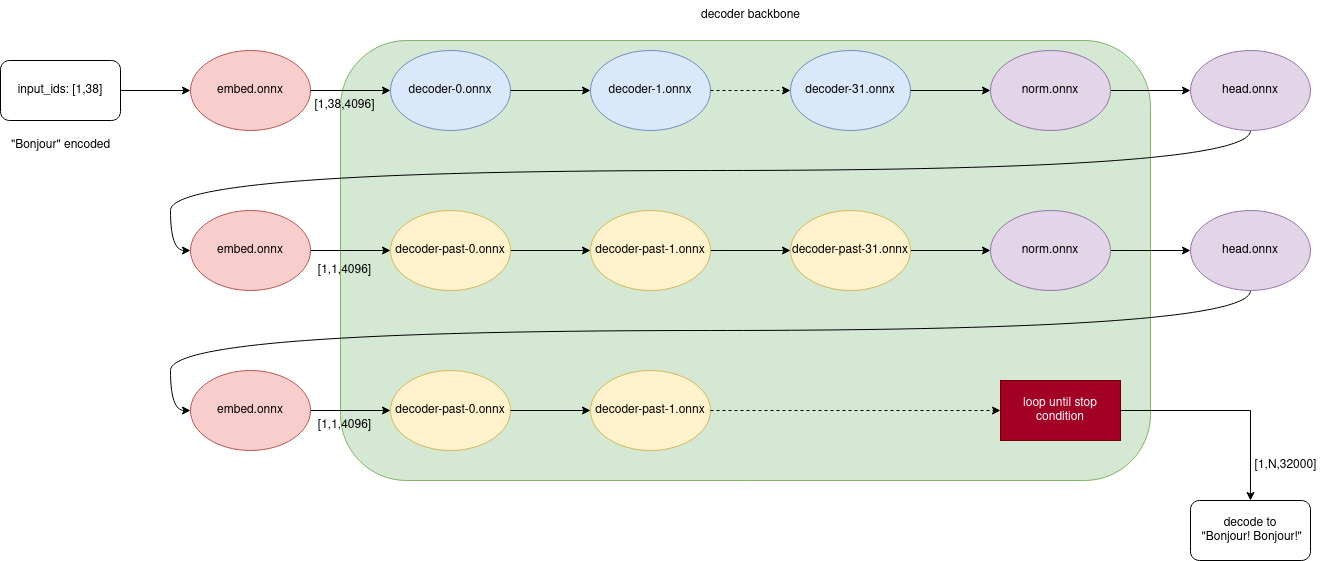
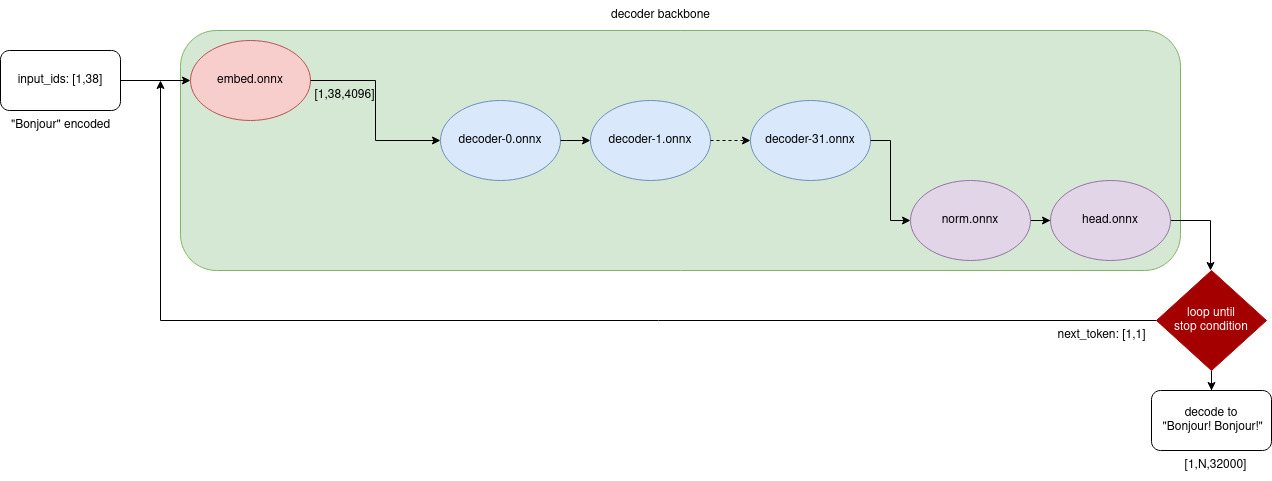
feat(project): reduce onnx model size (#6)
* feat(project): reduce onnx model size

* feat(project): reduce onnx model size

* feat(project): update image

diff --git a/demo-single.py b/demo-single.py
@@ -30,14 +30,12 @@ class Llama:
         # EOS token
         self.FINISH_TOKEN = 2
         self.tokenizer = Tokenizer(os.path.join(onnxdir, 'tokenizer.model'))
-        self.init = Decoder(onnxdir, 'decoder-{}.onnx', self.DECODER_COUNT)
-        self.past = Decoder(onnxdir, 'decoder-past-{}.onnx',
-                            self.DECODER_COUNT)
+        self.decoder = Decoder(onnxdir, 'decoder-merge-{}.onnx', self.DECODER_COUNT)
         self.config = config
 
         # cache
-        self.pastkeys = None
-        self.pastvalues = None
+        self.pastkeys = [None for i in range(self.DECODER_COUNT)]
+        self.pastvalues = [None for i in range(self.DECODER_COUNT)]
 
     # Modified transformers.models.llama.modeling_llama._make_causal_mask with np.array
     def _make_causal_mask(self,
@@ -111,41 +109,16 @@ class Llama:
 
         return combined_attention_mask
 
-    def decode_init(self, input_ids: np.array):
-        # project to embed/higher dimension
-        hidden = self.init.embed(input_ids)
-        assert hidden.shape[-1] == 4096
-
-        seqlen = hidden.shape[1]
-        position_ids = np.arange(seqlen, dtype=np.int64).reshape((1, seqlen))
-        attention_mask = np.ones((1, seqlen), dtype=np.float32)
-        attention_mask = self._prepare_decoder_attention_mask(
-            attention_mask, (1, seqlen), hidden, 0)
-
-        for idx in range(self.DECODER_COUNT):
-            inputs = {
-                'hidden_in': hidden,
-                'attn_mask': attention_mask,
-                'position_ids': position_ids
-            }
-
-            outputs = self.init.decode(inputs, idx)
-
-            hidden = outputs['hidden_out']
-            self.pastkeys[idx] = outputs['past_key']
-            self.pastvalues[idx] = outputs['past_value']
-
-        hidden = self.init.norm_head(hidden)
-        return hidden
-
-    def decode_past(self, token: np.array):
+    def decode(self, token: np.array):
         # embed space
-        hidden = self.past.embed(token)
+        hidden = self.decoder.embed(token)
         assert hidden.shape[-1] == 4096
 
-        pastlen = self.pastkeys[0].shape[-2]
+        if self.pastkeys[0] is None:
+            pastlen = 0
+        else:
+            pastlen = self.pastkeys[0].shape[-2]
         seqlen = hidden.shape[1]
-        assert seqlen == 1
 
         position_ids = np.arange(seqlen, dtype=np.int64).reshape((1, seqlen))
         position_ids[0][0] = pastlen
@@ -158,22 +131,32 @@ class Llama:
             past_key = self.pastkeys[idx]
             past_value = self.pastvalues[idx]
 
-            inputs = {
-                'hidden_in': hidden,
-                'attn_mask': attention_mask,
-                'position_ids': position_ids,
-                'past_key_in': past_key,
-                'past_value_in': past_value
-            }
+            if past_key is None:
+                zero_tensor = np.zeros((1,32,0,128), dtype=np.float32)
+                inputs = {
+                    'hidden_in': hidden,
+                    'attn_mask': attention_mask,
+                    'position_ids': position_ids,
+                    'past_key_in': zero_tensor,
+                    'past_value_in': zero_tensor
+                }
+            else:
+                inputs = {
+                    'hidden_in': hidden,
+                    'attn_mask': attention_mask,
+                    'position_ids': position_ids,
+                    'past_key_in': past_key,
+                    'past_value_in': past_value
+                }
 
-            outputs = self.past.decode(inputs, idx)
+            outputs = self.decoder.decode(inputs, idx)
 
             hidden = outputs[
                 'hidden_out']  # [[[ 0.0221,  0.0120,  0.0007,  ..., -0.0614, -0.0625,  0.0494]]]
             self.pastkeys[idx] = outputs['past_key']
             self.pastvalues[idx] = outputs['past_value']
 
-        hidden = self.init.norm_head(hidden)
+        hidden = self.decoder.norm_head(hidden)
         return hidden
 
     def apply_warp(self, tensor: np.array):
@@ -191,17 +174,10 @@ class Llama:
             (1, len(input_ids)))
 
         # decoder backbone loop
+        next_token = input_ids
         while True:
-            if self.pastkeys is None:
-                # init cache
-                self.pastkeys = [None for i in range(self.DECODER_COUNT)]
-                self.pastvalues = [None for i in range(self.DECODER_COUNT)]
-                # decoder backbone init
-                logits = self.decode_init(input_ids)
-
-            else:
-
-                logits = self.decode_past(next_token)
+            # decoder backbone
+            logits = self.decode(next_token)
 
             # split tail
             next_token_scores = logits[:, -1, :]

diff --git a/README.md b/README.md
@@ -10,11 +10,9 @@ So you can quantize llama partially and optimize kernel step by step.
 
 ## Usage
 
-:rocket: New version reduced 50% model size to 26GB, uploading [in this PR](https://github.com/tpoisonooo/llama.onnx/pull/6).
+:rocket: New version reduced 50% model size to 26GB, download it here
 
-Download old 53GB version here
-* huggingface https://huggingface.co/tpoisonooo/llama.onnx/tree/main
-* BaiduYun https://pan.baidu.com/s/195axYNz79U6YkJLETNJmXw?pwd=onnx
+* huggingface https://huggingface.co/tpoisonooo/alpaca.onnx/tree/main
 
 Here is the graph to call them:
 
@@ -31,7 +29,9 @@ Bonjour.
 
 ## Updates
 
-2023/04/?? reduce onnx model size
+2023/04/?? support `memory pool`, run within 2GB memory
+
+2023/04/10 reduce onnx model size to 26GB
 
 2023/04/10 support `temperature` add `topk` logits warp
 
